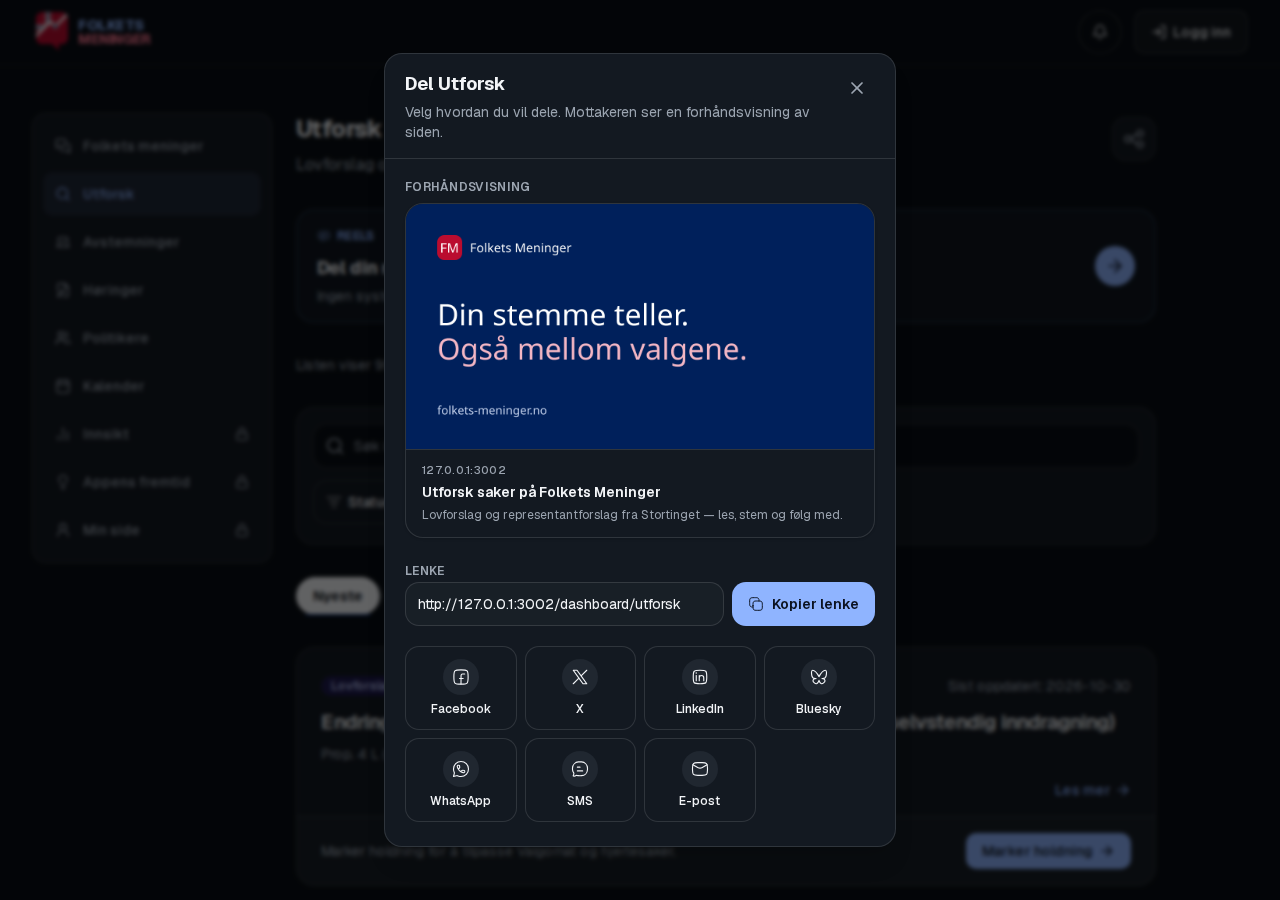
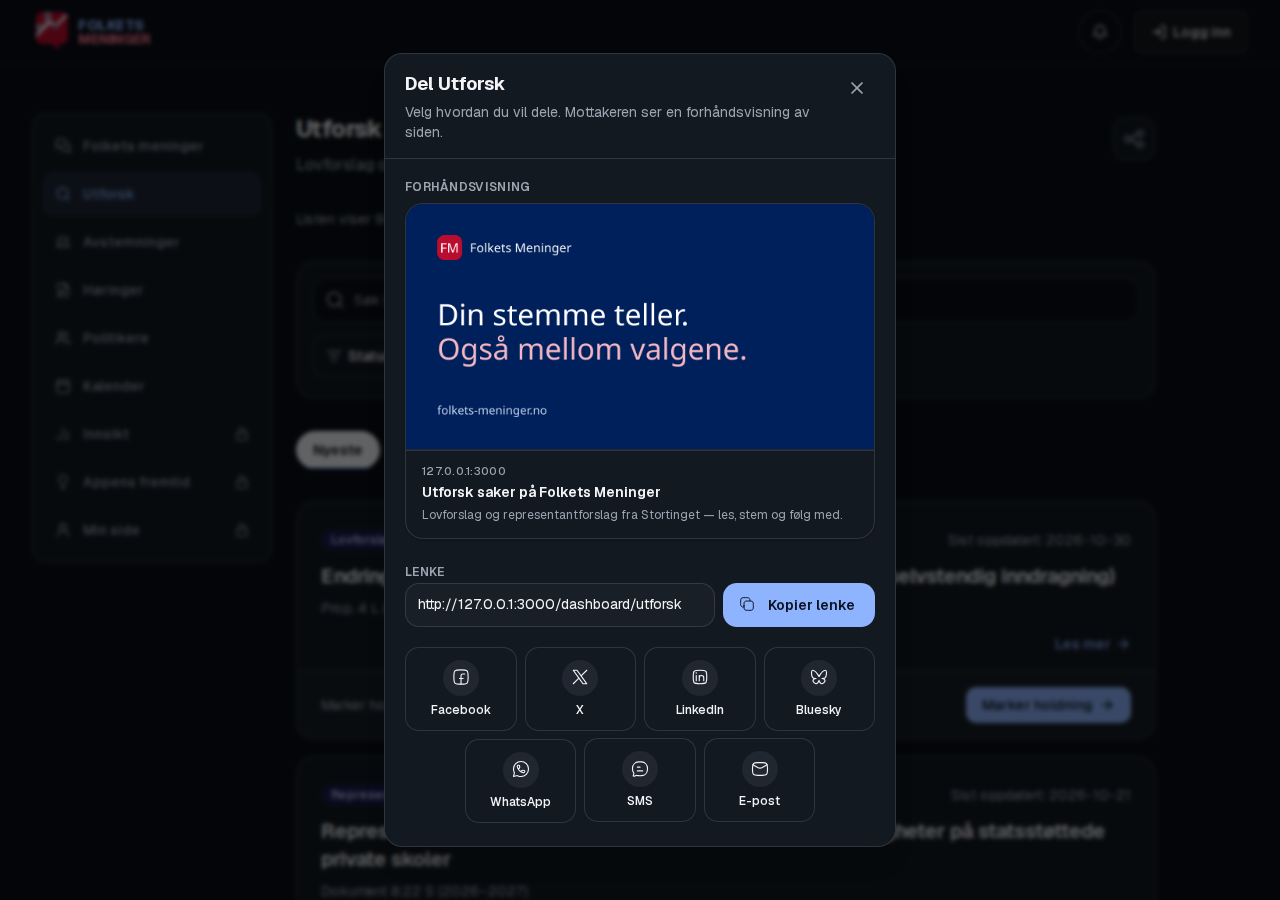
Oppfølging #255: delingsmodal-polish (#260)
* Oppfølging #255: stabil kopier-knapp, sentrert delingsgrid, kommentarer

- Kopier-knapp beholder bredde via overlappende etiketter i grid
- Siste rad (3 valg) sentreres på sm+ uten tom celle i 4-kolonne-grid
- VURDER_FOCUS_RING på trykkflater; rAF z-index beholdt med oppdatert kommentar
- Oppdaterte docs/share-samples med Playwright

* Pixel #260: kopiert-hake, sentrert 8-kol grid, skjermbilder

Fjern wait-gap på kopier-ikon, bruk sm:grid-cols-8 for 4+3, VURDER_FOCUS_RING
på lenkefelt, og forbedret capture-script (preview, 600 ms, skjul dev-overlay).

---------

diff --git a/components/share/share-dialog.tsx b/components/share/share-dialog.tsx
@@ -29,11 +29,9 @@ import {
   type ShareChannel,
   type ShareTarget,
 } from '@/lib/share/targets';
+import { VURDER_FOCUS_RING } from '@/lib/admin/vurder-interaction-classes';
 import { cn } from '@/lib/utils';
 import { canUseNativeShare } from '@/lib/share/native-share';
-
-const FOCUS_RING =
-  'focus-visible:outline-none focus-visible:ring-2 focus-visible:ring-ring focus-visible:ring-offset-2';
 
 const TARGET_ICONS: Record<ShareTarget, IconSvgElement> = {
   facebook: Facebook01Icon,
@@ -67,7 +65,7 @@ export type ShareDialogProps = {
   /** Extra actions under the share options (e.g. embed for polls). */
   extraActions?: ReactNode;
   showPreview?: boolean;
-  /** Stack above reel expanded UI (`z-[400]`). */
+  /** Raise overlay above reel expanded UI (see SHARE_DIALOG_OVERLAY_Z_INDEX). */
   overlayTop?: boolean;
 };
 
@@ -91,6 +89,7 @@ export function ShareDialog({
   const [error, setError] = useState('');
   const dialogInstanceRef = useRef(0);
 
+  // Dialog sets overlay z-index on open; re-apply after paint so share sits above reel expanded UI.
   useEffect(() => {
     if (!open || !overlayTop) return;
     dialogInstanceRef.current += 1;
@@ -187,27 +186,34 @@ export function ShareDialog({
               readOnly
               value={displayUrl}
               onFocus={(event) => event.currentTarget.select()}
-              className="min-h-11 min-w-0 flex-1 rounded-xl border border-border bg-muted/40 px-3 text-sm text-foreground focus-visible:outline-none focus-visible:ring-2 focus-visible:ring-brand"
+              className={cn(
+                'min-h-11 min-w-0 flex-1 rounded-xl border border-border bg-muted/40 px-3 text-sm text-foreground',
+                VURDER_FOCUS_RING,
+              )}
             />
             <button
               type="button"
               onClick={() => void copyLink()}
               className={cn(
                 'inline-flex min-h-11 shrink-0 items-center gap-2 rounded-xl px-4 text-sm font-semibold transition-colors',
-                FOCUS_RING,
+                VURDER_FOCUS_RING,
                 copied
                   ? 'bg-emerald-700 text-white dark:bg-emerald-700 dark:text-white'
                   : 'bg-brand text-brand-foreground hover:bg-brand/90',
               )}
             >
-              <AnimatePresence mode="wait" initial={false}>
+              <AnimatePresence initial={false}>
                 <motion.span
                   key={copied ? 'copied' : 'copy'}
-                  initial={reducedMotion ? false : { scale: 0.6, opacity: 0, rotate: -20 }}
+                  initial={
+                    reducedMotion || copied
+                      ? false
+                      : { scale: 0.6, opacity: 0, rotate: -20 }
+                  }
                   animate={{ scale: 1, opacity: 1, rotate: 0 }}
                   exit={reducedMotion ? undefined : { scale: 0.6, opacity: 0 }}
                   transition={{ type: 'spring', stiffness: 520, damping: 26 }}
-                  className="inline-flex"
+                  className="inline-flex shrink-0"
                 >
                   <HugeiconsIcon
                     icon={copied ? Tick02Icon : Copy01Icon}
@@ -216,7 +222,10 @@ export function ShareDialog({
                   />
                 </motion.span>
               </AnimatePresence>
-              {copied ? 'Lenke kopiert' : 'Kopier lenke'}
+              <span className="grid [&>span]:col-start-1 [&>span]:row-start-1">
+                <span className={cn(!copied && 'invisible')}>Lenke kopiert</span>
+                <span className={cn(copied && 'invisible')}>Kopier lenke</span>
+              </span>
             </button>
           </div>
           <p className="sr-only" role="status" aria-live="polite">
@@ -230,7 +239,7 @@ export function ShareDialog({
             onClick={() => void shareNative()}
             className={cn(
               'flex min-h-11 w-full items-center justify-center gap-2 rounded-xl border border-border bg-card px-4 text-sm font-semibold text-foreground transition-colors hover:bg-muted',
-              FOCUS_RING,
+              VURDER_FOCUS_RING,
             )}
           >
             <HugeiconsIcon icon={SmartPhone01Icon} className="h-4 w-4" aria-hidden />
@@ -239,7 +248,7 @@ export function ShareDialog({
         ) : null}
 
         <ul
-          className="grid grid-cols-2 gap-2 sm:grid-cols-4 sm:justify-items-stretch"
+          className="grid grid-cols-2 gap-2 sm:grid-cols-8 sm:justify-items-stretch"
           aria-label="Del til"
         >
           {SHARE_TARGETS.map((target, index) => {
@@ -249,7 +258,9 @@ export function ShareDialog({
               <motion.li
                 key={target}
                 className={cn(
-                  isOrphanMobile && 'col-span-2 sm:col-span-1',
+                  'sm:col-span-2',
+                  index === 4 && 'sm:col-start-2',
+                  isOrphanMobile && 'col-span-2 sm:col-span-2',
                   isOrphanMobile && 'flex justify-center sm:block',
                 )}
                 initial={reducedMotion ? false : { opacity: 0, y: 6 }}
@@ -266,7 +277,7 @@ export function ShareDialog({
                   rel={newTab ? 'noreferrer noopener' : undefined}
                   className={cn(
                     'group flex min-h-11 w-full flex-col items-center gap-1.5 rounded-xl border border-border bg-card px-2 py-3 text-xs font-medium text-foreground transition-colors hover:bg-muted',
-                    FOCUS_RING,
+                    VURDER_FOCUS_RING,
                     isOrphanMobile && 'max-w-[calc(50%-0.25rem)] sm:max-w-none',
                   )}
                 >

diff --git a/lib/share/share-overlay-z-index.ts b/lib/share/share-overlay-z-index.ts
@@ -1,2 +1,2 @@
-/** Above reel expanded shell (`z-[400]`) and backdrop (`z-[225]`). Applied in share-dialog only. */
+/** Raised above reel expanded UI; applied in share-dialog after Dialog sets its default overlay z-index. */
 export const SHARE_DIALOG_OVERLAY_Z_INDEX = 450;
